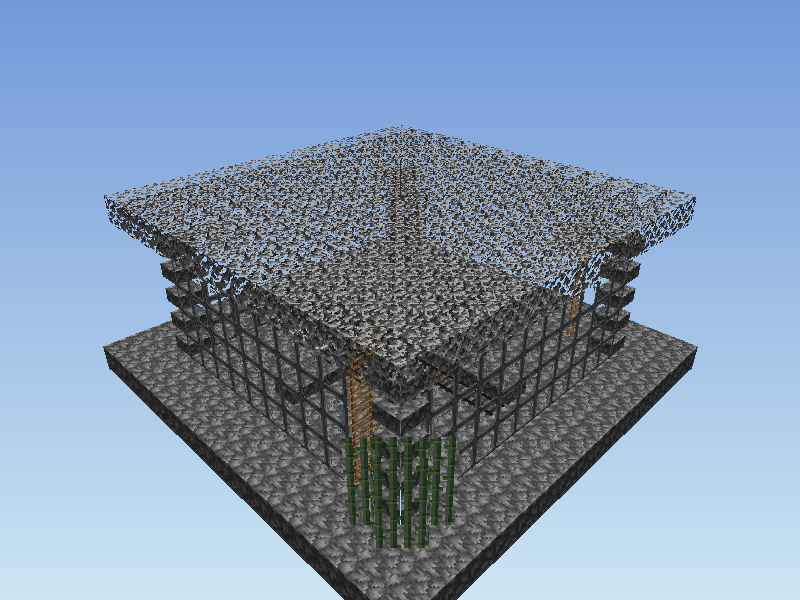
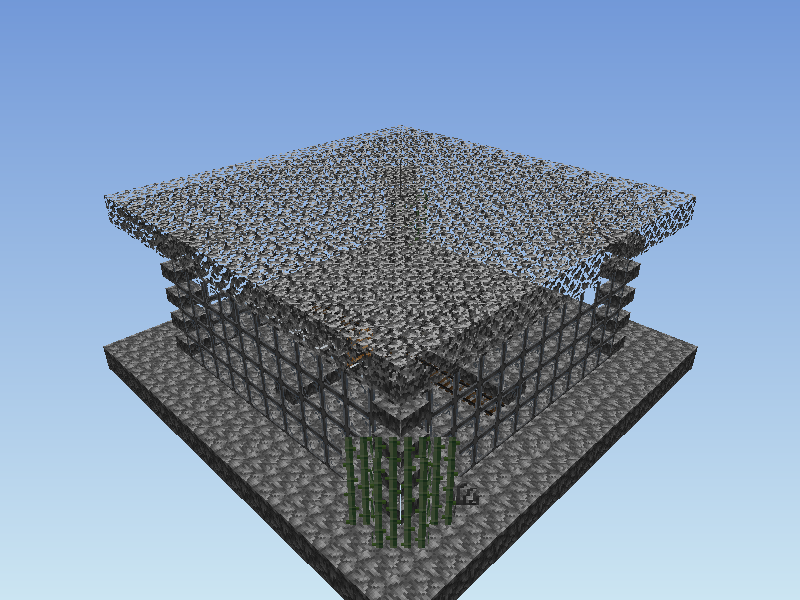
Fix cross UV's.

diff --git a/examples/render_chunk.rs b/examples/render_chunk.rs
@@ -34,6 +34,7 @@ enum MyBlock {
     Leaves,
     SugarCane, // Cross(0) — diagonal billboard
     Cobweb,    // Cross(4) — stretched diagonal billboard
+    Shrub,     // Cross(0) — short diagonal billboard
     Ladder,    // Facade(PosX) — flat face on +X side
     Rail,      // Facade(NegY) — flat face on bottom
 }
@@ -45,7 +46,7 @@ impl Block for MyBlock {
                 face: Face::NegY,
                 thickness: 8,
             }),
-            MyBlock::SugarCane => Shape::Cross(0),
+            MyBlock::SugarCane | MyBlock::Shrub => Shape::Cross(0),
             MyBlock::Cobweb => Shape::Cross(4),
             MyBlock::Ladder => Shape::Facade(Face::PosX),
             MyBlock::Rail => Shape::Facade(Face::NegY),
@@ -61,6 +62,7 @@ impl Block for MyBlock {
             MyBlock::Leaves
             | MyBlock::SugarCane
             | MyBlock::Cobweb
+            | MyBlock::Shrub
             | MyBlock::Ladder
             | MyBlock::Rail => CullMode::TransparentUnmerged,
         }
@@ -90,6 +92,7 @@ fn build_atlas() -> Buffer2d<Rgba<f32>> {
         "examples/leaves.png",
         "examples/sugarcane.png",
         "examples/cobweb.png",
+        "examples/shrub.png",
         "examples/ladder.png",
         "examples/rail_straight.png",
     ]
@@ -119,8 +122,9 @@ fn atlas_u_offset(block: MyBlock) -> f32 {
         MyBlock::Leaves => 3.0,
         MyBlock::SugarCane => 4.0,
         MyBlock::Cobweb => 5.0,
-        MyBlock::Ladder => 6.0,
-        MyBlock::Rail => 7.0,
+        MyBlock::Shrub => 6.0,
+        MyBlock::Ladder => 7.0,
+        MyBlock::Rail => 8.0,
         MyBlock::Air => 0.0,
     }
 }
@@ -272,6 +276,34 @@ fn build_chunk() -> PaddedChunk<MyBlock> {
         }
     }
 
+    // Sugar cane stalks (3 blocks tall).
+    for &(sx, sz) in &[(1, 1), (1, 2), (2, 1), (14, 14), (14, 15)] {
+        for y in 1..4 {
+            chunk.set(sx, y, sz, MyBlock::SugarCane);
+        }
+    }
+
+    // Cobwebs in the upper corners between pillars.
+    for &(cx, cz) in &[(3, 3), (3, 12), (12, 3), (12, 12)] {
+        chunk.set(cx, 5, cz, MyBlock::Cobweb);
+    }
+
+    // Shrubs scattered around.
+    for &(sx, sz) in &[(1, 3), (6, 10), (10, 6), (9, 11), (4, 4)] {
+        chunk.set(sx, 1, sz, MyBlock::Shrub);
+    }
+
+    // Ladders on the +X face of clay pillars.
+    for y in 1..6 {
+        chunk.set(3, y, 2, MyBlock::Ladder);
+        chunk.set(3, y, 13, MyBlock::Ladder);
+    }
+
+    // Rails on the floor along the slab path.
+    for i in 3..13 {
+        chunk.set(i, 1, 7, MyBlock::Rail);
+    }
+
     // Glass windows between pillars (along edges).
     for i in 3..13 {
         for y in 1..5 {
@@ -293,29 +325,6 @@ fn build_chunk() -> PaddedChunk<MyBlock> {
         for z in 1..15 {
             chunk.set(x, 6, z, MyBlock::Leaves);
         }
-    }
-
-    // Sugar cane stalks (3 blocks tall).
-    for &(sx, sz) in &[(1, 1), (1, 2), (2, 1), (14, 14), (14, 15)] {
-        for y in 1..4 {
-            chunk.set(sx, y, sz, MyBlock::SugarCane);
-        }
-    }
-
-    // Cobwebs in the upper corners between pillars.
-    for &(cx, cz) in &[(3, 3), (3, 12), (12, 3), (12, 12)] {
-        chunk.set(cx, 5, cz, MyBlock::Cobweb);
-    }
-
-    // Ladders on the +X face of clay pillars.
-    for y in 1..6 {
-        chunk.set(3, y, 2, MyBlock::Ladder);
-        chunk.set(3, y, 13, MyBlock::Ladder);
-    }
-
-    // Rails on the floor along the slab path.
-    for i in 3..13 {
-        chunk.set(i, 1, 7, MyBlock::Rail);
     }
 
     chunk

diff --git a/tests/cross.rs b/tests/cross.rs
@@ -216,10 +216,10 @@ fn cross_texture_coordinates_span_one_by_one() {
     for diag in DiagonalFace::ALL {
         let quad = &q.diagonals[diag.index()][0];
         let uvs = quad.texture_coordinates(diag, Axis::X, false);
-        assert_eq!(uvs[0], glam::Vec2::new(0.0, 0.0));
-        assert_eq!(uvs[1], glam::Vec2::new(1.0, 0.0));
-        assert_eq!(uvs[2], glam::Vec2::new(1.0, 1.0));
-        assert_eq!(uvs[3], glam::Vec2::new(0.0, 1.0));
+        assert_eq!(uvs[0], glam::Vec2::new(0.0, 1.0));
+        assert_eq!(uvs[1], glam::Vec2::new(1.0, 1.0));
+        assert_eq!(uvs[2], glam::Vec2::new(1.0, 0.0));
+        assert_eq!(uvs[3], glam::Vec2::new(0.0, 0.0));
     }
 }
 
@@ -234,7 +234,9 @@ fn merged_cross_texture_coordinates_scale_vertically() {
         let quad = &q.diagonals[diag.index()][0];
         let uvs = quad.texture_coordinates(diag, Axis::X, false);
         // v_size should be 3.0 (3 blocks tall).
-        assert_eq!(uvs[2], glam::Vec2::new(1.0, 3.0));
-        assert_eq!(uvs[3], glam::Vec2::new(0.0, 3.0));
+        assert_eq!(uvs[0], glam::Vec2::new(0.0, 3.0));
+        assert_eq!(uvs[1], glam::Vec2::new(1.0, 3.0));
+        assert_eq!(uvs[2], glam::Vec2::new(1.0, 0.0));
+        assert_eq!(uvs[3], glam::Vec2::new(0.0, 0.0));
     }
 }

diff --git a/src/mesh.rs b/src/mesh.rs
@@ -166,11 +166,12 @@ impl Quad {
             }
             QuadFace::Diagonal(_) => {
                 let v_size = self.size.y as f32 / FULL_THICKNESS as f32;
+                let (v_bottom, v_top) = if flip_v { (0.0, v_size) } else { (v_size, 0.0) };
                 [
-                    Vec2::new(0.0, 0.0),
-                    Vec2::new(1.0, 0.0),
-                    Vec2::new(1.0, v_size),
-                    Vec2::new(0.0, v_size),
+                    Vec2::new(0.0, v_bottom),
+                    Vec2::new(1.0, v_bottom),
+                    Vec2::new(1.0, v_top),
+                    Vec2::new(0.0, v_top),
                 ]
             }
         }
